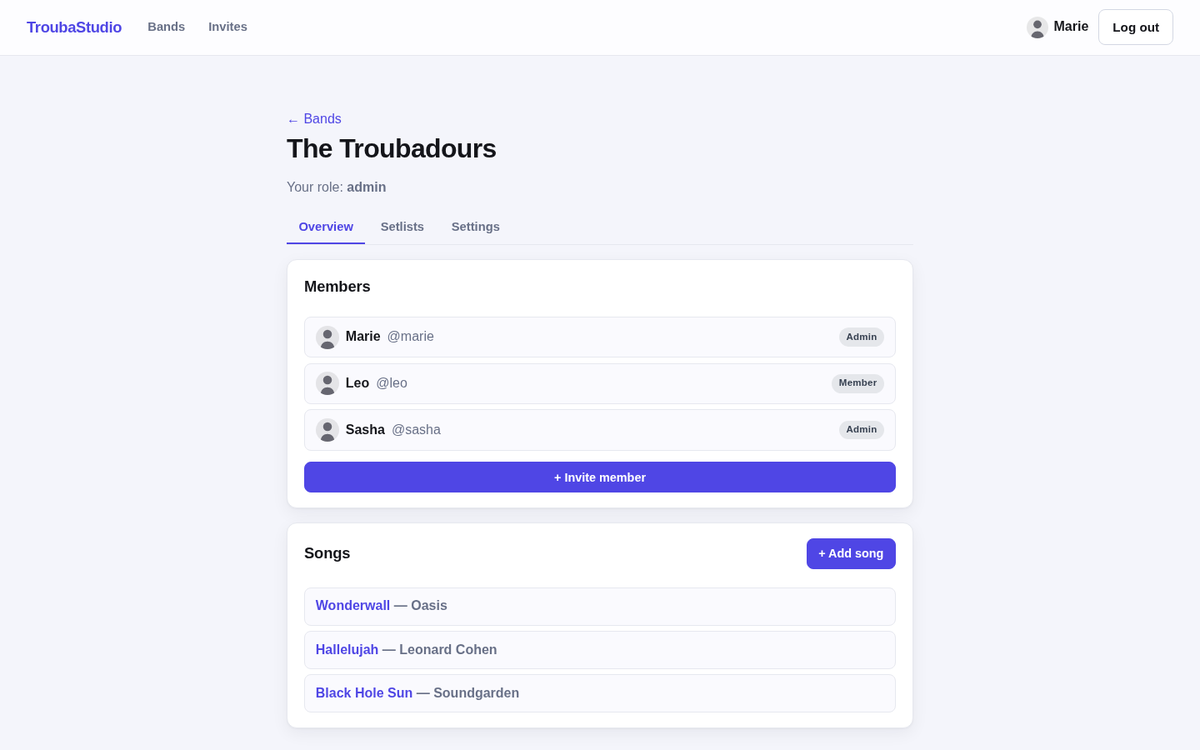
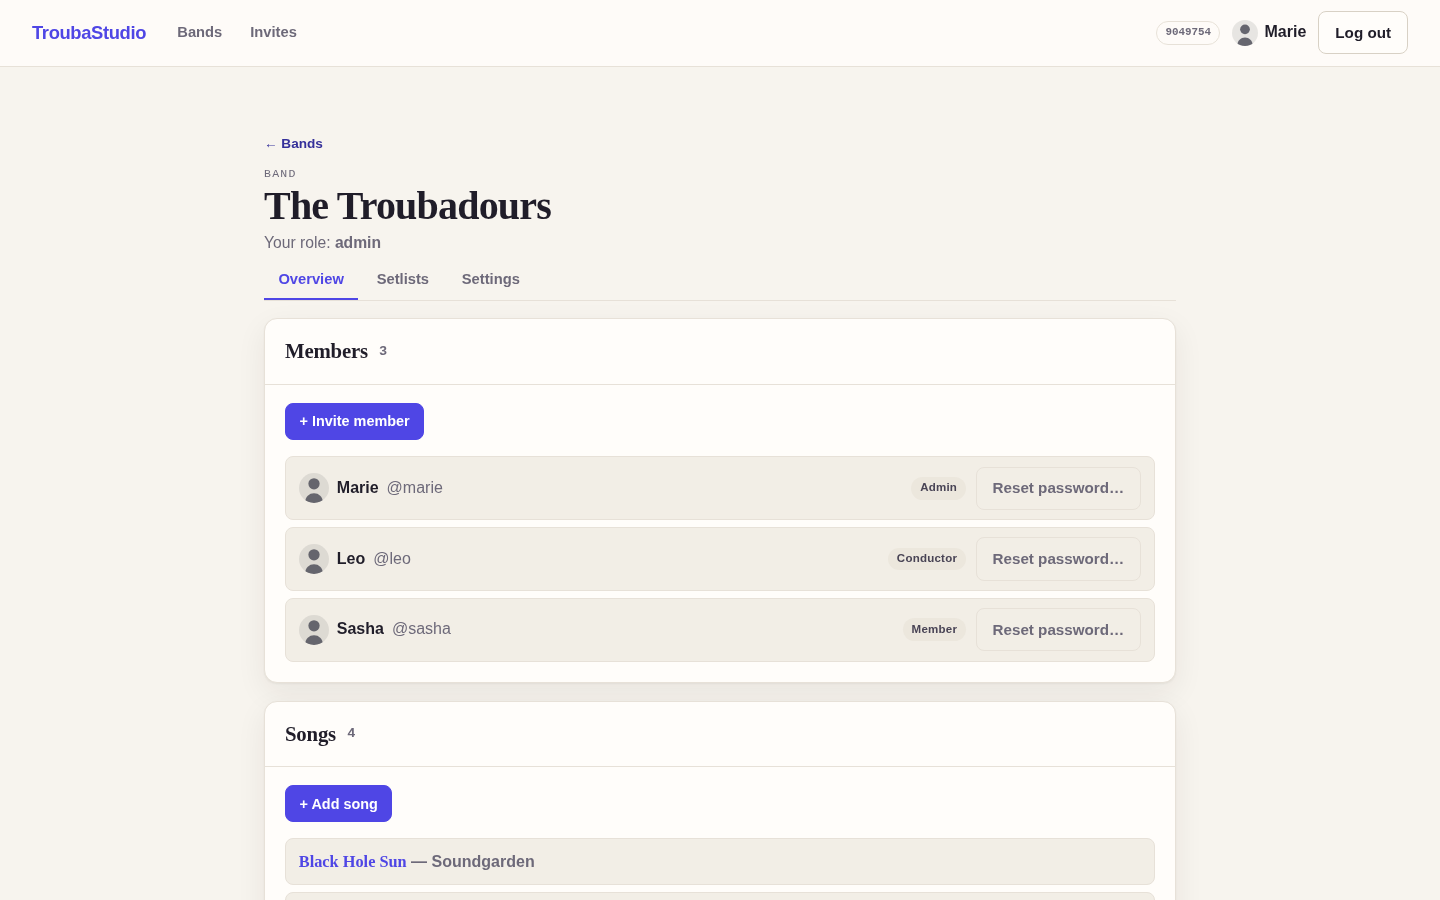
docs: refresh the root README — badges, current descriptions, new screenshots, Docker install + honest packaging status
- Badges: CI (5 gating jobs) + iOS-simulator workflow + Go/Node/Kotlin shields.
- Screenshots regenerated from the seeded demo at today's main: the fullscreen
  canvas-first editor (slim pills, thin ctx bar, conductor cues, part tabs) and
  the reskinned band overview (roles, password reset, version chip).
- Stale claims fixed: the bake/publish/distribution loop and A06 Studio-in-app
  are DONE (were listed as 'scaffold/next'); 'real bundles will come once bake
  lands' rewritten to the Connect/browse/download reality; e2e count updated.
- New 'Install it for real' section: compose-up quickstart, Dockerfile notes,
  and an honest packaging-status paragraph (no registry image / releases /
  store APK yet; CI debug-APK artifact; signed APK = OPS01's remaining half).
- Monorepo map gains deploy/; Status section rewritten to the current product.

Per VLL (chat 2026-07-11: 'redo the main readme with badges, new descriptions
and screenshot; do we have docker install and badges?').

diff --git a/README.md b/README.md
@@ -1,11 +1,20 @@
 # TroubaStack
 
-Collaborative sheet-music & lyrics annotation for bands and ensembles.
+[![CI](https://github.com/yoda-jm/troubastack/actions/workflows/ci.yml/badge.svg?branch=main)](https://github.com/yoda-jm/troubastack/actions/workflows/ci.yml)
+[![iOS (simulator)](https://github.com/yoda-jm/troubastack/actions/workflows/ios.yml/badge.svg)](https://github.com/yoda-jm/troubastack/actions/workflows/ios.yml)
+![Go](https://img.shields.io/badge/Go-1.26%2B-00ADD8?logo=go&logoColor=white)
+![Node](https://img.shields.io/badge/Node-24%2B-5FA04E?logo=nodedotjs&logoColor=white)
+![Kotlin](https://img.shields.io/badge/Kotlin%2FCompose-Android%20%C2%B7%20iOS-7F52FF?logo=kotlin&logoColor=white)
+
+Collaborative sheet-music & lyrics annotation for bands and ensembles — from the
+rehearsal-room edit to the on-stage page turn, self-hosted on a box you own.
 
 **One product (`TroubaShare`), three layers, one contract.** You *compose and annotate*
-scores in a reactive web editor (**TroubaStudio**); a server (**TroubaCore**) holds the single
-authoritative truth and publishes performable concerts; an offline, dumb presenter
-(**TroubaStage**, inside the mobile app) *performs* them on stage.
+scores in a fullscreen, canvas-first web editor (**TroubaStudio**); a server
+(**TroubaCore**, one Go binary) holds the single authoritative truth, bakes setlists
+into performable concert bundles, and distributes them in-app; an offline presenter
+(**TroubaStage**, inside the mobile app) *performs* them on stage — pedal page turns,
+night mode, count-in, facing pages, per-role layers.
 
 > The name is a troubadour pun, and it maps onto the architecture:
 > a **troubadour** *composes* (the editor), a **joglar** *performs* (the presenter).
@@ -13,7 +22,11 @@ authoritative truth and publishes performable concerts; an offline, dumb present
 
 | TroubaStudio — annotate together, live | TroubaStage — perform offline |
 |---|---|
-| ![The TroubaStudio editor: a score with freehand, shape and text annotations, per-member layers, realtime sync](docs/screenshots/studio-editor.png) | <img src="docs/screenshots/stage-page.png" alt="A page of the demo bundle as TroubaStage composites it: score raster + section highlights + conductor cues" width="260"> |
+| ![The fullscreen canvas-first TroubaStudio editor: Wonderwall with conductor cues, section highlights and part tabs; slim floating tool and style pills over the score](docs/screenshots/studio-editor.png) | <img src="docs/screenshots/stage-page.png" alt="A page of the demo bundle as TroubaStage composites it: score raster + section highlights + conductor cues" width="260"> |
+
+The full loop works end to end today: **compose → annotate (realtime, multi-user) →
+bake → offer → download in-app → perform offline** — on Android, iOS (simulator-proven)
+and any browser.
 
 ---
 
@@ -25,6 +38,7 @@ authoritative truth and publishes performable concerts; an offline, dumb present
 | Understand a specific subsystem | [`docs/design/`](docs/design/) |
 | Know why a decision was made | [`docs/adr/`](docs/adr/) |
 | See what's being built next (agent-executable task specs) | [`docs/tasks/`](docs/tasks/) |
+| See what a real band can/can't do yet | [`docs/USER-JOURNEY.md`](docs/USER-JOURNEY.md) |
 | Look up a term (bake, concert, layer, wet/dry ink…) | [`docs/glossary.md`](docs/glossary.md) |
 
 **The golden rule:** [`docs/ARCHITECTURE.md`](docs/ARCHITECTURE.md) lists numbered
@@ -36,7 +50,7 @@ them. If code and an invariant disagree, the code is wrong.
 ## Quick start — run the whole thing locally
 
 Prerequisites: **Go 1.26+** and **Node 24+ / npm 11+** (that's all for the server + web editor).
-Baking a setlist to a `.tstage` (B02) additionally needs **`pdftoppm`** (from `poppler-utils`)
+Baking a setlist to a `.tstage` additionally needs **`pdftoppm`** (from `poppler-utils`)
 on `PATH` for PDF page rasters — override its location with `TROUBA_PDFTOPPM` if needed.
 
 ```sh
@@ -46,46 +60,63 @@ make demo    # builds the SPA, embeds it into the Go binary, seeds demo data, se
 
 Open **http://localhost:8080** and log in as **`marie` / `demo`** (band admin; also
 `leo`, `sasha` — and `maestro`/`flora`/`cory` in the orchestra — same password).
-You get two seeded bands with songs, multi-page PDFs, per-member annotation layers,
-and realtime sync — open the same song in two browsers and draw.
+You get two seeded bands with songs, multi-page PDFs, text charts, per-member
+annotation layers, conductor cues and realtime sync — open the same song in two
+browsers and draw.
 
 Reset the demo data with `rm -rf core/troubadata`.
 
-![Band overview: members with roles, songs, setlists](docs/screenshots/band-overview.png)
+![Band overview in the warm concert-program design: members with roles and admin password reset, songs, setlists](docs/screenshots/band-overview.png)
 
 Other useful targets (`make help` lists everything):
 
 | Command | What it does |
 |---|---|
 | `make dev` | development loop: Go API + Vite hot-reload SPA on :5173 |
-| `make test` | Go tests (engine, stores, HTTP API) |
-| `make e2e` | Playwright end-to-end suite (~56 specs, drives a real core+SPA) |
+| `make test` | Go tests (engine, stores, HTTP API, bake) |
+| `make e2e` | Playwright end-to-end suite (~80 specs, drives a real core+SPA) |
 | `make check` | `go vet` + strict `gofmt` gate (same as CI) |
 | `make app` | build the Android app (see below) |
 | `make fixtures` | regenerate the demo/torture bundle fixtures (`core/cmd/mkbundle`) |
 
 CI runs all of this on every push/PR: `.github/workflows/ci.yml` (go · web · proto ·
-android · e2e).
+android · e2e — all five gate the merge).
 
 ---
 
-## Deploy it on a box you own
+## Install it for real — Docker, on a box you own
 
 `make demo` is local-only over `http://localhost`. To run TroubaStack for a real band —
-HTTPS on a home server or cheap VPS, one binary behind Caddy (automatic Let's Encrypt),
-all state in one backed-up data dir — see **[`deploy/`](deploy/README.md)**:
-`docker compose up -d` with your domain, or the documented systemd variant. Backups are
-a single `tar` of the data dir (`deploy/backup.sh`).
+HTTPS on a home server or a cheap VPS, one binary behind Caddy with automatic
+Let's Encrypt certificates, all state in one backed-up data dir — see
+**[`deploy/`](deploy/README.md)**:
+
+```sh
+cp deploy/.env.example deploy/.env    # set DOMAIN=band.example.org
+cd deploy && docker compose up -d     # builds the image, provisions TLS, serves
+```
+
+The [`Dockerfile`](Dockerfile) is multi-stage (SPA embedded at compile time; the
+runtime can bake — poppler + the Node bake worker included; non-root). Backups are a
+single `tar` of the data dir ([`deploy/backup.sh`](deploy/backup.sh), restore path
+tested). A plain **systemd** variant (no docker) is documented in the same README.
+
+**Packaging status (honest):** the compose build above is the supported install.
+There is no published registry image, no GitHub Releases binary, and no store/F-Droid
+APK yet — CI builds a **debug APK** artifact on every push (below), and a signed
+release APK is the remaining half of the deploy story
+([`docs/tasks/OPS01`](docs/tasks/OPS01-production-serving.md)).
 
 ---
 
 ## The mobile app — TroubaStage on your phone/tablet
 
-The Kotlin/Compose Multiplatform app (Android now, iOS later) currently ships the
-**TroubaStage presenter**: fully **offline, no account, no login** — it performs baked
-concert bundles (`.tstage` files) that you import from anywhere on the device.
-Hosting the Studio editor inside the app is the next planned step
-([`docs/tasks/A06`](docs/tasks/A06-android-webview-studio-host.md)).
+The Kotlin/Compose Multiplatform app (Android now, iOS in simulator) ships the
+**TroubaStage presenter** — fully **offline, no account, no login** — plus the
+in-app distribution loop: connect to your band's server (mDNS discovery on the LAN),
+browse offered concerts, download and perform them. Stage-time ergonomics are real:
+pedal/volume-key page turns, night mode, count-in, facing pages on wide tablets,
+per-role layer defaults, a song drawer, and the screen stays awake while performing.
 
 <p>
 <img src="docs/screenshots/stage-concerts.png" alt="Concerts list (Sat @ The Anchor) with Connect + Import" width="240">&nbsp;
@@ -131,10 +162,10 @@ adb push docs/demo/demo-concert.tstage /sdcard/Download/
 in airplane mode. Navigation (tap/swipe/song jump), fit modes and per-layer visibility
 all work offline; the screen stays awake and the system bars hide while performing. Try
 **Role → `conductor`**: the red conductor cues appear (role-targeted layers default off
-for everyone else, and the mandatory section-markings layer can never be hidden). Real bundles will come from the server-side bake
-([`docs/design/04-publish-pipeline.md`](docs/design/04-publish-pipeline.md)) once it lands —
-the container format is specified in
-[`docs/design/08-bundle-container.md`](docs/design/08-bundle-container.md).
+for everyone else, and the mandatory section-markings layer can never be hidden).
+With a running server you don't need the file at all: **Connect** finds the server on
+your LAN, lists the offered concerts, and downloads them in-app
+([`docs/design/04-publish-pipeline.md`](docs/design/04-publish-pipeline.md)).
 
 ### iOS (simulator)
 
@@ -162,9 +193,10 @@ troubastack/
 │   ├── ink/      @troubastack/ink — THE one stroke renderer. [I8]
 │   ├── studio/   TroubaStudio — the canonical editor SPA. [I10]
 │   └── bake/     bake worker (Node) — reuses web/ink for pixel-parity. [I8]
-└── app/          TroubaShare — Kotlin/Compose Multiplatform mobile app.
-                  TroubaStage presenter + (soon) Studio in a webview.
-                  Native code kept to 3 seams only. [I15]
+├── app/          TroubaShare — Kotlin/Compose Multiplatform mobile app.
+│                 TroubaStage presenter + Studio in a webview.
+│                 Native code kept to 3 seams only. [I15]
+└── deploy/       single-box production serving: compose + Caddy/TLS + backups.
 ```
 
 Dependencies point **toward the contract only**: `core`, `web/studio`, `web/bake`, and `app`
@@ -172,17 +204,27 @@ all depend on `proto`; nothing depends on a sibling client. [I14]
 
 ## Status
 
-Actively implemented — the scaffold days are over:
+The product loop is closed and CI-gated end to end:
 
-- **Working today:** the Go core (append-only engine, LWW/tombstone sync, swappable
-  mem/file/git stores, REST + WebSocket API), the full Studio editor (PDF viewing,
-  freehand/shape/text annotation with a low-latency wet-ink path, per-member layers,
-  realtime multi-user echo), and the Android TroubaStage presenter (offline, resilient,
-  `.tstage` import).
-- **Scaffold / next:** the server-side bake & publish pipeline, distribution/updates,
-  Studio-in-the-app (A06), the native ink overlay (A07 — only if the web path proves too
-  slow on a real tablet), iOS, proto codegen adoption.
-- The live work queue with per-task specs is [`docs/tasks/`](docs/tasks/).
+- **The editor:** fullscreen, canvas-first — Ctrl/⌘-wheel and two-finger pinch
+  zoom-to-cursor (one raster per gesture), low-latency wet ink, per-member layers,
+  per-object z-order with a selection toolbar, shapes/text/highlights with presets,
+  realtime multi-user echo, offline honesty (read-only presentation + visible
+  errors — nothing dies silently), text charts alongside PDFs, drag-reorder
+  setlists, duplication, admin password reset, a build-version chip.
+- **The pipeline:** server-side bake (concurrent-safe, per-member parts, encore/bench
+  songs, retention via `troubacore gc`), in-app offer/download distribution, and the
+  committed demo bundle above — studio pixels and baked pixels come from the same
+  renderer (I8) and are parity-tested.
+- **The presenter:** Android + iOS-simulator TroubaStage with the stage ergonomics
+  arc (A08–A15) landed: metadata strip, pedal page turns, night mode, count-in,
+  facing pages, scroll mode, song drawer.
+- **Production serving:** the [`deploy/`](deploy/README.md) story above (compose +
+  Caddy/TLS + tested backups) — the attended first bring-up and the signed release
+  APK are the remaining steps.
+- **Next / open:** the live work queue with per-task specs is
+  [`docs/tasks/`](docs/tasks/) (§ *Queue state*); the honest gap register is
+  [`docs/USER-JOURNEY.md`](docs/USER-JOURNEY.md).
 
 ## Toolchains
 
